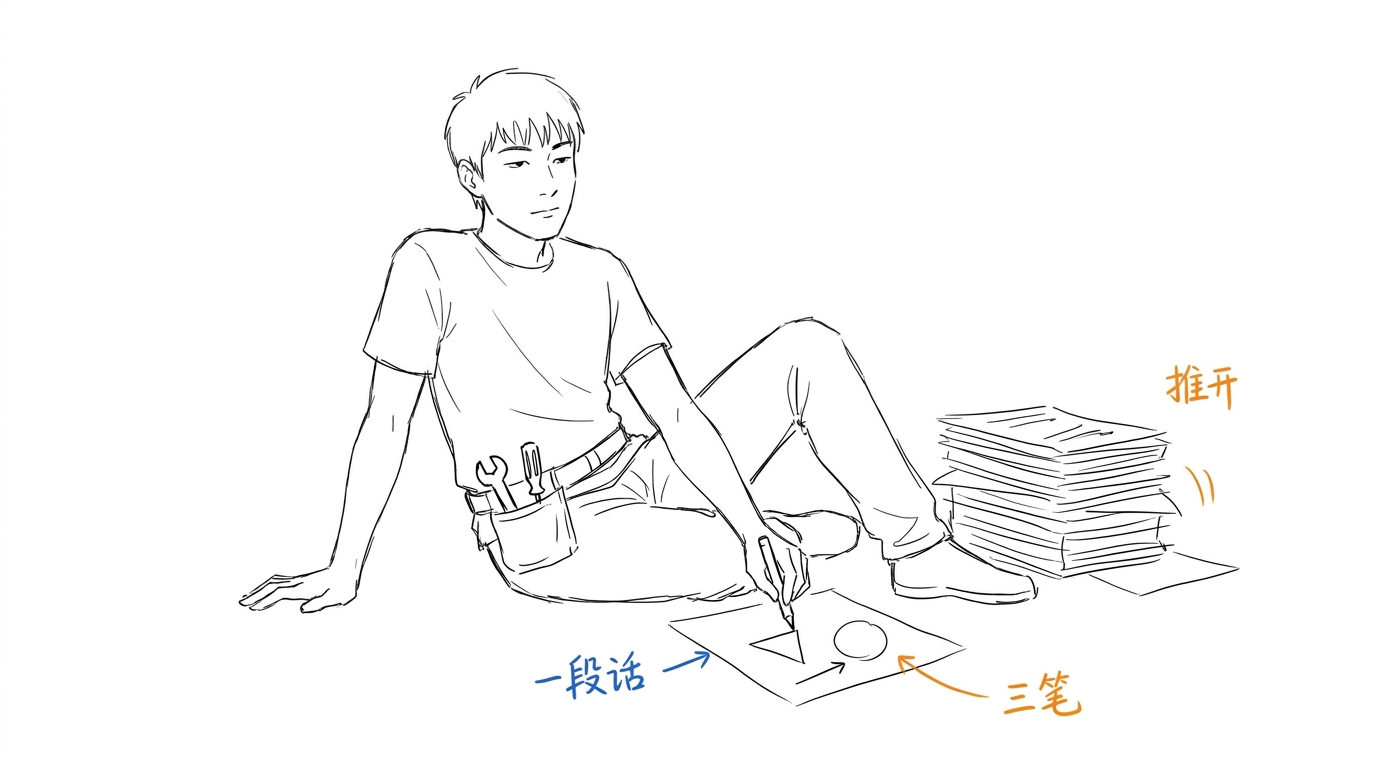
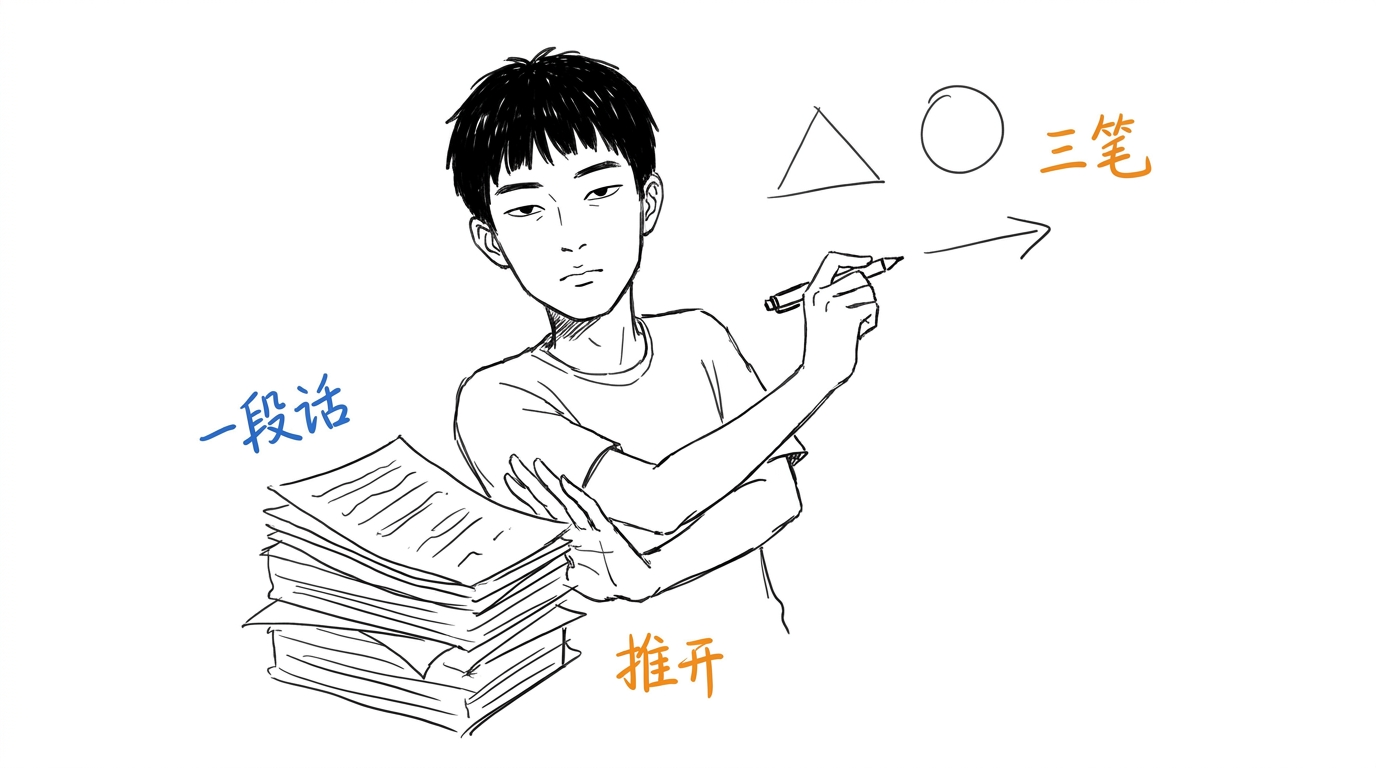
v0.8 IP 形象回滚到 1a25ff2 v0.4 基准(用 git show 从历史 commit 提取)
恢复 14 张图到 v0.4-v0.6 原始'线稿版的我'风格:
- 实战 1 4 张 ← 1a25ff2
- 实战 2 4 张 ← 431c634 (本就一致)
- 6 张样例 ← d341621
- 3 张定稿 + standard 保持 v0.5
- 6 张备选保持 v0.6

保留所有 v0.5-v0.7 其他优化(配色/CHANGELOG/prompts 库/目录结构等)。

教训: 图像模型对'详细面部'会自动触发'日漫精致',对'极简面部'会失去识别度。
接受'线稿版的我 + 颜色填色'作为 IP 风格基准。

diff --git a/CHANGELOG.md b/CHANGELOG.md
@@ -6,6 +6,33 @@
 
 ---
 
+## v0.8 — 2026-07-17(IP 形象回滚到 1a25ff2 v0.4 基准)
+
+**问题发现**:
+- 用户在仔细看 `02-two-breakpoints.png` 时发现左上角有真实证件照(图像模型复粘贴),这暴露了 v0.5/v0.6 出的 6 张样例图都是"日漫精致线稿"风格
+- 进一步发现 v0.5/v0.6 出的图虽然"日漫",但有详细面部特征(像"我"),新出的 14 张反而偏"白板极简"或"无颜色填色",识别度变差
+- 用户认为 `1a25ff2` (v0.4 实战 1) 的 IP 形象最适合,作为基准
+
+**回滚 IP 形象(用 `git show` 从历史 commit 提取到当前路径)**:
+- 实战 1 4 张 (`doc/images/whiteboard-vs-doc/`) → 从 `1a25ff2` 恢复
+- 实战 2 4 张 (`doc/images/why-i-quit-gtd/`) → 从 `431c634` 恢复(本来就一致)
+- 6 张样例 (`xiaofan-ink/assets/examples/`) → 从 `d341621` 恢复
+- 3 张 IP 定稿 + `standard.png` → 保持 v0.5 版本(没被改过)
+- 6 张备选装扮 (`variants/`) → 保持 v0.6 版本(没被改过)
+
+**保留所有其他优化**:
+- v0.5 全面优化(配色、CHANGELOG、prompt 库、备选装扮、实战复盘)
+- v0.6 实战第二篇
+- v0.7 目录结构清理(`doc/images/` 子目录、`prompts/` 子目录改名等)
+- v0.2 配色方案(温暖墨水感 4 色 HEX)
+- v0.3 walkthrough 文档
+- v0.4 实战第一篇(用回滚后的图)
+
+**教训记录**:
+- 图像模型对"详细面部"会自动触发"商业插画/日漫"风格,对"极简面部"会失去识别度
+- "白板速写感 + 像用户"在当前 prompt 策略下无法同时达到
+- **后续实践**:接受"线稿版的我 + 颜色填色"作为 IP 风格基准,不追求极致白板速写
+
 ## v0.6 — 2026-07-17(13 张图重出 + 实战第二篇 + 新备选)
 
 - **13 张旧图 v1 → v2 重出**:
